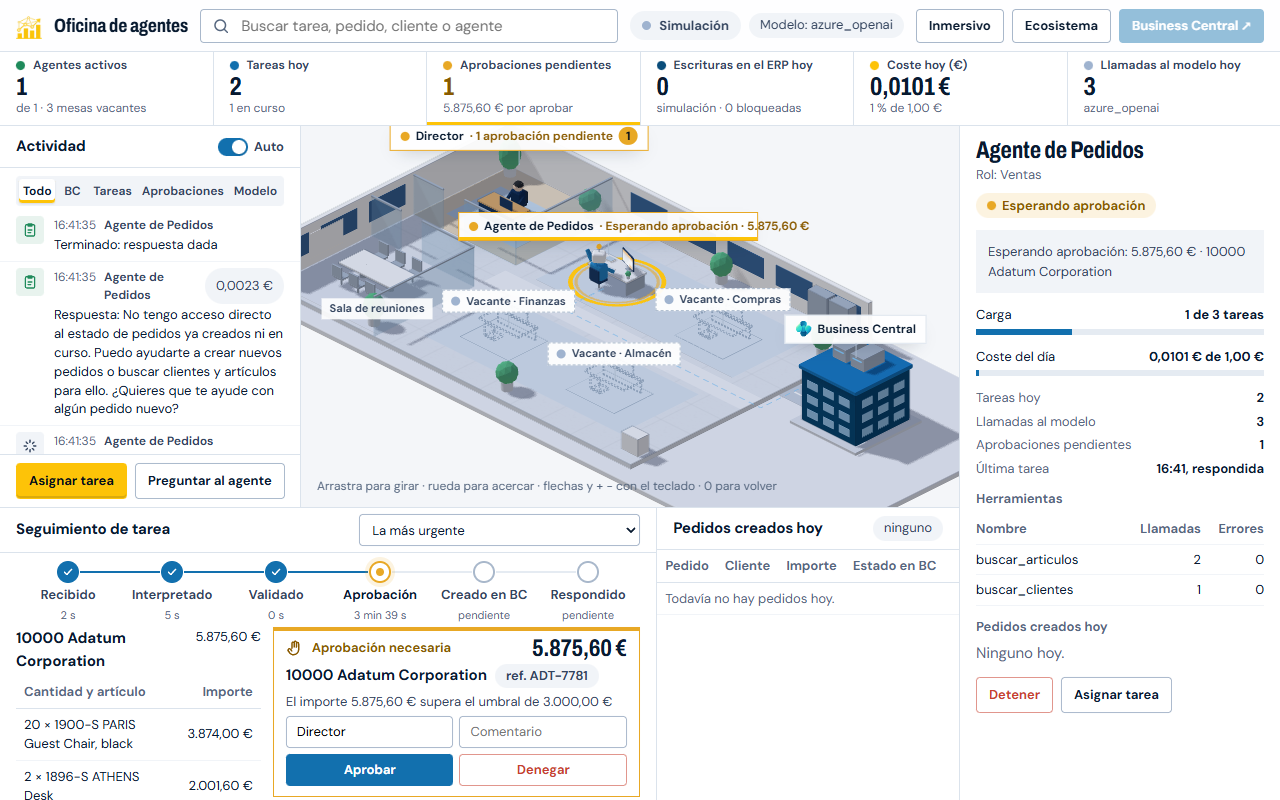
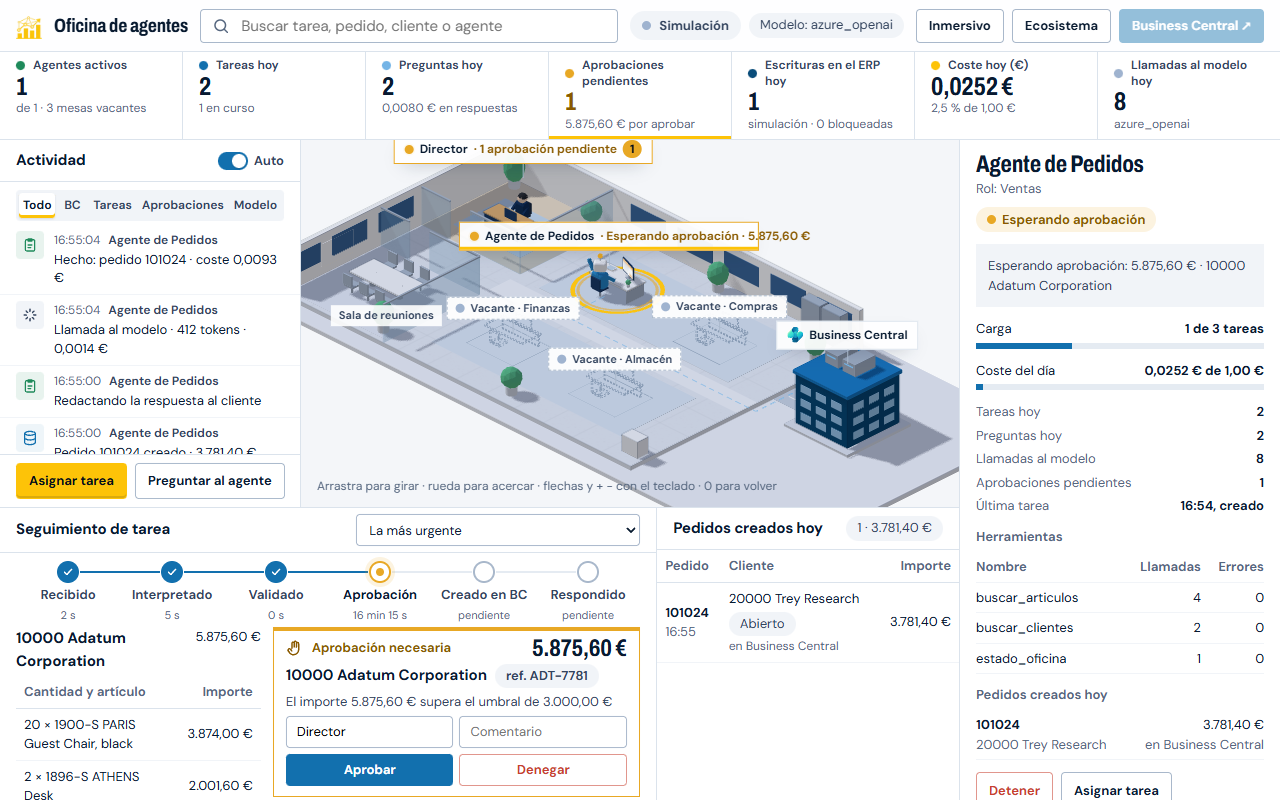
Oficina: README con las capturas a 1600 y 1280 px, y notas de estado_oficina, preguntas aparte y verificación con el sandbox (pedido 101024)

diff --git a/docs/oficina/NOTAS.md b/docs/oficina/NOTAS.md
@@ -89,7 +89,28 @@ Con el pedido de Adatum esperando aprobación, desde el botón de la oficina: «
 - **Respuesta, a los 14,7 s:** «No tengo acceso directo al estado de pedidos ya creados ni en curso. Puedo ayudarte a crear nuevos pedidos o buscar clientes y artículos para ello…».
 - **Coste:** 1 llamada al modelo con 1.001 tokens, **0,0023 €**. El feed lo muestra junto a la respuesta.
 
-La respuesta es honesta pero no ayuda. El asistente de `chat` solo tiene herramientas del ERP (buscar clientes y artículos, crear pedidos). No ve las aprobaciones pendientes del workflow ni consulta pedidos existentes. **Pendiente:** darle una herramienta de solo lectura con las aprobaciones pendientes y los pedidos del día, sacados de los checkpoints y de `eventos.jsonl`, para que pueda contestar «está esperando la aprobación del director desde las 16:39».
+La respuesta es honesta pero no ayuda. El asistente de `chat` solo tiene herramientas del ERP (buscar clientes y artículos, crear pedidos). No ve las aprobaciones pendientes del workflow ni consulta pedidos existentes. Resuelto en la tercera revisión con la herramienta `estado_oficina` (ver abajo).
+
+### Tercera revisión: `estado_oficina`, preguntas aparte y verificación con el sandbox
+
+- **Herramienta `estado_oficina`** (`src/agente_pedidos/estado_oficina.py`), de solo lectura y sin aprobación. Lee los checkpoints y `eventos.jsonl`, lo mismo que dibuja la torre de control, y devuelve:
+  - las aprobaciones pendientes: cliente, importe, motivo de la parada, desde cuándo esperan, líneas, referencia, ERP y quién decide;
+  - las tareas del día con su paso actual, sin las preguntas;
+  - los pedidos creados hoy.
+
+  No habla con el ERP: así el asistente puede contestar sobre un pedido que todavía no existe en Business Central. El prompt del asistente la indica para preguntas sobre pedidos en curso, en espera o creados hoy, y le prohíbe crear nada para contestar (2, 4). El modelo simulado la usa igual, para las pruebas.
+- **La pregunta con el modelo real**, desde la oficina: «¿En qué estado está el pedido de Adatum Corporation que espera aprobación?». A los 20,6 s contestó: «El pedido de Adatum Corporation está esperando aprobación porque su importe de 5.875,60 € supera el umbral de 3.000,00 €. El pedido incluye 20 sillas PARIS Guest Chair negras y 2 escritorios ATHENS. Está esperando la decisión del director desde las 16:41.». Tiene el estado, el importe, el motivo y la hora. Usó `estado_oficina` una vez y costó **0,0057 €**, más que la primera pregunta (0,0023 €), porque ahora hace una llamada a la herramienta y otra para redactar.
+- **Las preguntas no son tareas.** Una tarea de clase «pregunta» no cuenta en «Tareas hoy», en la carga ni en las tareas en curso del tablero. Tiene su KPI, «Preguntas hoy», con lo que han costado las respuestas, y su fila en el panel del agente. Sí pone al agente en «Trabajando» mientras contesta, porque está trabajando (5).
+- **Verificación con el sandbox real desde la propia oficina** (TEST29, CRONUS ES), con `python -m agente_pedidos.oficina --bc api` y escrituras activadas (`AGENTE_SOLO_LECTURA` distinto de 1, comprobado sin mostrar `.env`):
+  - Correo 06 con la referencia nueva TRY-5533, porque TRY-5532 ya existía en el sandbox y la idempotencia lo habría bloqueado como duplicado. Asignado desde «Asignar tarea».
+  - A los 24,2 s, tarjeta en el seguimiento: 20000 Trey Research, 3.781,40 €, «El importe 3.781,40 € supera el umbral de 3.000,00 €».
+  - Aprobado desde la tarjeta como «Javier». A los 17,1 s, el pedido **101024** aparece en «Pedidos creados hoy» en estado Abierto, con «Abrir en BC ↗». El enlace se comprobó sin mostrarlo, porque lleva el tenant: dominio de Business Central, empresa codificada, página 42 y filtro `'No.' IS '101024'`.
+  - La captura tomada justo después muestra el punto de oro llegando por el camino al edificio de Business Central. Los pasos terminan con «Aprobado por Javier» y «Pedido 101024».
+  - **Eventos:** `aprobacion_resuelta` (si, Javier), `erp_escritura` (101024, 3.781,40, cliente 20000, modo api) y `tarea_terminada` (creado). **Auditoría:** la línea `escritura_erp` de `crear_pedido_venta` desde el código, con el resultado 101024 y la referencia TRY-5533. **Decisión:** en `checkpoints/aprobaciones_resueltas.jsonl` (aprobado, Javier).
+  - **Coste del pedido: 0,0093 €** (0,009328 €), en 43,3 s de principio a fin.
+  - **Aprobación de la simulación en modo api:** la de Adatum, pedida con el ERP simulado, sale en la oficina con Aprobar y Denegar desactivados y el aviso «Se pidió con el ERP simulado (demo): arranca la oficina en ese modo para resolverla». El endpoint, llamado igualmente, contesta **409**: «La aprobación se pidió con BC_MODO=demo y ahora está BC_MODO=api: resuélvela con BC_MODO=demo.».
+- **Pedidos de otro modo.** Un pedido real visto con la oficina en simulación dice «en Business Central», no «simulación». La tabla de pedidos pone la hora bajo el número y el enlace bajo el estado. En paneles estrechos, el estado pasa bajo el cliente: ninguna columna se corta.
+- Las capturas vigentes ([1600 × 1000](captura.png) y [1280 × 800](captura-1280.png)) son de la oficina en simulación con la aprobación de Adatum pendiente, después de la verificación. Por eso se ven también el pedido 101024 del sandbox y las dos preguntas. Toda la sesión de prueba de hoy: 0,0252 € en 8 llamadas al modelo.
 
 ## Arranque
 
@@ -106,7 +127,7 @@ La respuesta es honesta pero no ayuda. El asistente de `chat` solo tiene herrami
 
 ## Verificación
 
-- 99 pruebas, todas sin red. Entre ellas: enlaces profundos, seguimiento por pasos (pedido grande parado y aprobado, pequeño sin aprobación, denegado y rechazado), pedidos del día con su enlace solo en modo api, feed y herramientas, «Preguntar al agente» con su respuesta y su coste en eventos, secuencias de eventos de `procesar` y `reanudar`, derivación de estados y tablero, 409 por aprobación resuelta, por doble clic y por cambio de modo, y una **prueba de extremo a extremo** que lanza subprocesos reales con el ERP simulado: asignar el correo 02 → esperar aprobación → aprobar → pedido creado, coste en el tablero, cronología y auditoría.
+- 103 pruebas, todas sin red. Además de lo anterior: la herramienta `estado_oficina` (aprobación pendiente con importe y motivo, tarea con su paso actual) y la pregunta por chat que la usa sin escribir nada, las preguntas fuera de las tareas y de la carga, y el formato español de los importes en las políticas y en el resumen del aprobador. Entre ellas: enlaces profundos, seguimiento por pasos (pedido grande parado y aprobado, pequeño sin aprobación, denegado y rechazado), pedidos del día con su enlace solo en modo api, feed y herramientas, «Preguntar al agente» con su respuesta y su coste en eventos, secuencias de eventos de `procesar` y `reanudar`, derivación de estados y tablero, 409 por aprobación resuelta, por doble clic y por cambio de modo, y una **prueba de extremo a extremo** que lanza subprocesos reales con el ERP simulado: asignar el correo 02 → esperar aprobación → aprobar → pedido creado, coste en el tablero, cronología y auditoría.
 - **Torre de control, probada desde la interfaz** con Playwright y Edge, con el ERP simulado y el modelo real de `.env`. Se pulsa «Asignar tarea» y se elige `02_pedido_grande.txt`. A los 22 s aparece la tarjeta de aprobación y el agente queda en «Esperando aprobación · 5.875,60 €», con 2 llamadas al modelo y 0,0078 € (primera captura). La captura vigente, [`captura.png`](captura.png) a 1600 × 1000 y [`captura-1280.png`](captura-1280.png) a 1280 × 800, repite el mismo estado tras la segunda revisión: correo 02 esperando aprobación, con la pregunta al agente en el feed. Esa sesión costó 0,0101 € en 3 llamadas: 0,0078 € del pedido y 0,0023 € de la pregunta. Al aprobar como «Javier» se crea S-ORD101001: el punto de oro llega a Business Central, la tabla de pedidos lo muestra como «simulación» y los KPI suben a 1 escritura, 3 llamadas y 0,0091 €. Los seis pasos quedan hechos, con «Aprobado por Javier».
 - Al revisar las capturas se corrigieron:
   - El lienzo 3D se quedaba en blanco si el contenedor cambiaba de tamaño al llegar los datos. Ahora la fila de KPI tiene su alto reservado y el encuadre se recalcula en cada fotograma si cambia el tamaño.
@@ -114,4 +135,4 @@ La respuesta es honesta pero no ayuda. El asistente de `chat` solo tiene herrami
   - El monitor tapaba la cara del agente.
   - Las etiquetas se pisaban en escenas estrechas.
 - Revisión visual de la versión anterior (arte provisional) con Edge headless a 1280 y 1600 px. Arreglado tras las capturas: el director levantaba la mano, la tarjeta tapaba la chapa, la chapa tapaba el rótulo, el coste no cuadraba por el redondeo, el origen salía con el nombre del fichero de la bandeja, los números de pedido de la simulación se repetían, la chapa de la ficha se descolocaba y la página podía quedarse vacía al arrancar.
-- **Pendiente:** la verificación con el sandbox real (correo 06 con una referencia externa nueva), después de que Javier vea la oficina con el ERP simulado.
+- **Hecha:** la verificación con el sandbox real desde la propia oficina (pedido 101024; ver «Tercera revisión»).

diff --git a/README.md b/README.md
@@ -54,7 +54,7 @@ Funciona **sin ninguna credencial** en modo demo (modelo simulado + Business Cen
 | **DevUI** | `devui/` | Entidades para la interfaz de pruebas del framework (beta) |
 | **Línea de comandos** | `src/agente_pedidos/cli.py` | `demo`, `procesar`, `pendientes`, `reanudar`, `chat`, `grafo` |
 | **Oficina de agentes** (interfaz web) | `ui/`, `src/agente_pedidos/eventos.py`, `src/agente_pedidos/oficina.py` | Registro de eventos (`eventos.jsonl`), backend FastAPI con SSE y torre de control con la oficina en 3D isométrico: estado de cada agente, seguimiento y aprobación de tareas, KPI de coste y enlaces a Business Central (sección 11) |
-| **Pruebas** | `tests/` | 99 pruebas sin modelo real ni ERP real (incluida la reanudación desde checkpoint y la oficina de extremo a extremo) |
+| **Pruebas** | `tests/` | 103 pruebas sin modelo real ni ERP real (incluida la reanudación desde checkpoint y la oficina de extremo a extremo) |
 
 ## 2. Los escenarios y por qué este
 
@@ -254,13 +254,17 @@ Aparecen dos entidades: el agente `interprete` y el workflow `pedidos`, ambos co
 Una **torre de control** con la oficina en 3D isométrico en el centro (three.js, con la paleta y la tipografía de javiercava.com). En la escena están el despacho del **director** (la persona), la mesa del Agente de Pedidos con una etiqueta flotante de estado (libre, trabajando, esperando aprobación, error o detenido), tres mesas **vacantes** (Compras, Finanzas, Almacén), la sala de reuniones y el edificio de **Business Central**, al que viaja un punto de oro cada vez que se crea un pedido. La escena se gira y se acerca con el ratón o el teclado, y al pulsar una mesa se selecciona.
 
 Alrededor, los paneles:
-- **KPI en vivo**: agentes activos, tareas, aprobaciones pendientes, escrituras en el ERP, coste y llamadas al modelo de hoy.
+- **KPI en vivo**: agentes activos, tareas, preguntas al agente (aparte: no cuentan como tareas ni como carga), aprobaciones pendientes, escrituras en el ERP, coste y llamadas al modelo de hoy.
 - **Feed de actividad**, con filtros por BC, tareas, aprobaciones y modelo, y los botones «Asignar tarea» y «Preguntar al agente».
 - **Detalle de lo seleccionado**: carga, coste frente al presupuesto, herramientas, pedidos con su enlace a Business Central, y Detener o Activar.
 - **Seguimiento de tarea**: Recibido → Interpretado → Validado → Aprobación → Creado en BC → Respondido, con los tiempos, las líneas y la **tarjeta de aprobación** cuando toca.
 - **Pedidos creados hoy**.
 
-![Oficina de agentes: el agente espera la aprobación de un pedido de 5.875,60 € y el tablero muestra la actividad del día](docs/oficina/captura.png)
+![Oficina de agentes a 1600 × 1000: el agente espera la aprobación de un pedido de 5.875,60 €, con el feed, los KPI del día y el pedido 101024 creado en el sandbox](docs/oficina/captura.png)
+
+A 1280 × 800 los paneles se compactan y la página no se desplaza:
+
+![Oficina de agentes a 1280 × 800, en el mismo estado](docs/oficina/captura-1280.png)
 
 ```bash
 pip install -r requirements-ui.txt        # o: pip install -e ".[ui]"
@@ -277,9 +281,10 @@ Cómo funciona:
 - **Protecciones**: una aprobación ya resuelta, o con un `reanudar` en marcha, se rechaza (409); una aprobación pedida con el ERP simulado no se puede resolver contra el real; un agente detenido no recibe tareas nuevas.
 - Con el ERP simulado, la oficina guarda los pedidos de la simulación en `ui/bandeja/erp_demo_pedidos.json` (`BC_DEMO_PEDIDOS`), para que `procesar` y `reanudar`, que son procesos distintos, vean los mismos pedidos.
 - **Enlaces a Business Central.** Con `BC_MODO=api`, el backend construye el enlace a la ficha de cada pedido (página 42 filtrada por número) a partir de `BC_TENANT_ID`, `BC_ENVIRONMENT` y `BC_COMPANY_NAME`. En simulación no hay enlace. El navegador nunca recibe credenciales.
-- **Preguntar al agente** lanza el comando `chat` sin terminal y con `CHAT_APROBAR=no`: el agente responde consultando, y la respuesta y su coste aparecen en el feed. Los pedidos solo se crean asignando una tarea, con su aprobación.
+- **Preguntar al agente** lanza el comando `chat` sin terminal y con `CHAT_APROBAR=no`. El agente responde consultando, y la respuesta y su coste aparecen en el feed. Para preguntas sobre la propia oficina («¿en qué estado está el pedido de Adatum Corporation que espera aprobación?») usa la herramienta de solo lectura `estado_oficina`, que lee los checkpoints y `eventos.jsonl` y da las aprobaciones pendientes con su importe, su motivo y desde cuándo esperan, las tareas del día con su paso actual y los pedidos creados hoy. Los pedidos solo se crean asignando una tarea, con su aprobación.
 - El presupuesto de coste del día se fija con `OFICINA_PRESUPUESTO_DIA_EUR`, que por defecto vale 1 €.
 - Solo escucha en `127.0.0.1`: esta versión no tiene autenticación y el nombre del aprobador es un campo de texto, no una identidad verificada.
+- **Verificado con el sandbox desde la propia oficina** (`--bc api`): «Asignar tarea» con el correo 06, aprobación desde la tarjeta y pedido 101024 en Business Central, con su enlace y su escritura en la auditoría y en los eventos. Una aprobación pedida en simulación sale desactivada y el backend la rechaza con un 409 (ver [`docs/oficina/NOTAS.md`](docs/oficina/NOTAS.md)).
 - **Sin compilación ni Node**: three.js 0.186, las fuentes y los iconos van copiados en `ui/static/vendor/`, `ui/static/fuentes/` y `ui/static/img/`. Sin WebGL, los paneles funcionan igual.
 
 Especificación: [`docs/oficina/ESPECIFICACION.md`](docs/oficina/ESPECIFICACION.md). La dirección visual vigente, que sustituye a la sección 4 de la especificación, está en [`docs/oficina/DIRECCION-VISUAL.md`](docs/oficina/DIRECCION-VISUAL.md). Decisiones y limitaciones: [`docs/oficina/NOTAS.md`](docs/oficina/NOTAS.md).
@@ -290,7 +295,7 @@ Especificación: [`docs/oficina/ESPECIFICACION.md`](docs/oficina/ESPECIFICACION.
 python -m pytest -q
 ```
 
-99 pruebas, todas sin modelo real ni Business Central real (modelo simulado y `ClienteDemo`): reglas de negocio, cliente de demostración, los cuatro recorridos del workflow (creación automática, aprobación con reanudación desde checkpoint en una instancia nueva, rechazo humano, rechazo por validación), aprobación a nivel de agente (aceptar, rechazar y confirmar en texto tras crear el pedido), aprobación por consola sin terminal o con EOF (se deniega y se audita), middleware de solo lectura y de presupuesto, lectura de `.env` (comentarios al final de línea), filtros del cliente de la API v2.0 contra una API simulada con `httpx.MockTransport` que se comporta como la real (sin `or` entre campos, `contains` sensible a mayúsculas y tildes, `blocked` como `_x0020_`), errores del ERP como datos en las lecturas, auditoría de herramientas que fallan y de las escrituras (desde el workflow y desde `chat`, sin duplicar líneas), ciclo de vida de las aprobaciones guardadas (`pendientes` sin las resueltas, `reanudar` rechaza un checkpoint resuelto), idempotencia de pedidos (mismo cliente y referencia externa), la capa de eventos (secuencias de `procesar` y `reanudar`), la oficina (derivación de estados, tablero, seguimiento por pasos, feed, pedidos del día con su enlace a Business Central, «Preguntar al agente», 409 y una prueba de extremo a extremo con subprocesos reales y el ERP simulado) y la integración MCP (se omite si `mcp` no está instalado).
+103 pruebas, todas sin modelo real ni Business Central real (modelo simulado y `ClienteDemo`): reglas de negocio, cliente de demostración, los cuatro recorridos del workflow (creación automática, aprobación con reanudación desde checkpoint en una instancia nueva, rechazo humano, rechazo por validación), aprobación a nivel de agente (aceptar, rechazar y confirmar en texto tras crear el pedido), aprobación por consola sin terminal o con EOF (se deniega y se audita), middleware de solo lectura y de presupuesto, lectura de `.env` (comentarios al final de línea), filtros del cliente de la API v2.0 contra una API simulada con `httpx.MockTransport` que se comporta como la real (sin `or` entre campos, `contains` sensible a mayúsculas y tildes, `blocked` como `_x0020_`), errores del ERP como datos en las lecturas, auditoría de herramientas que fallan y de las escrituras (desde el workflow y desde `chat`, sin duplicar líneas), ciclo de vida de las aprobaciones guardadas (`pendientes` sin las resueltas, `reanudar` rechaza un checkpoint resuelto), idempotencia de pedidos (mismo cliente y referencia externa), la capa de eventos (secuencias de `procesar` y `reanudar`), la oficina (derivación de estados, tablero, seguimiento por pasos, feed, pedidos del día con su enlace a Business Central, «Preguntar al agente» y su herramienta `estado_oficina`, preguntas fuera de las tareas, importes en formato español, 409 y una prueba de extremo a extremo con subprocesos reales y el ERP simulado) y la integración MCP (se omite si `mcp` no está instalado).
 
 ## 13. Estructura del repositorio y qué hace cada archivo
 
